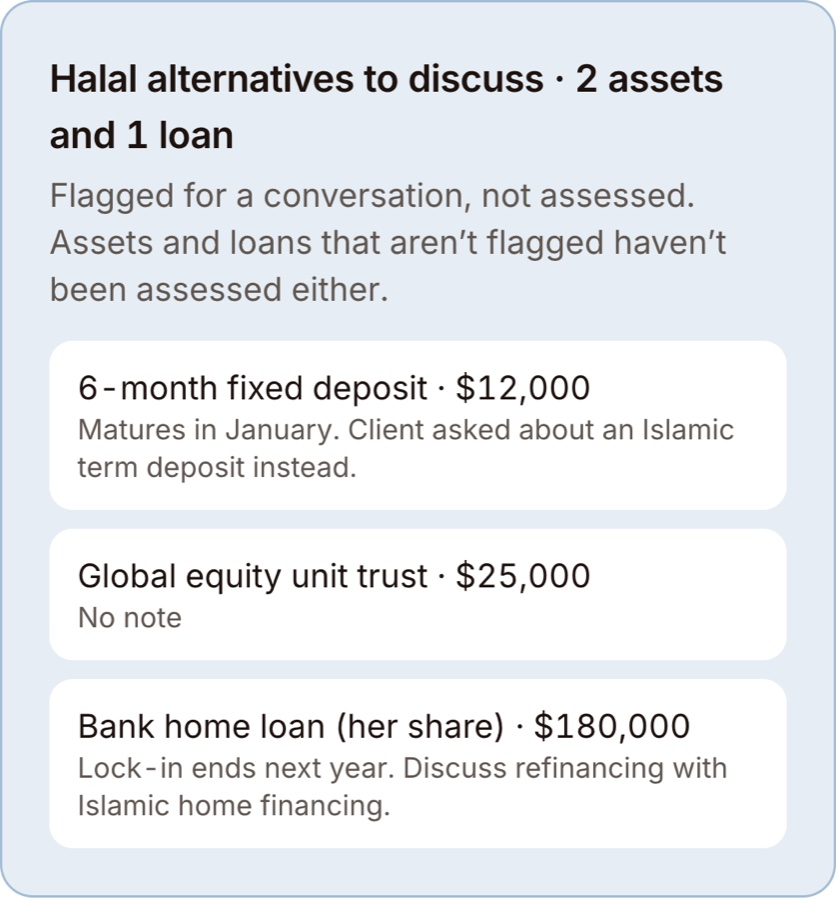
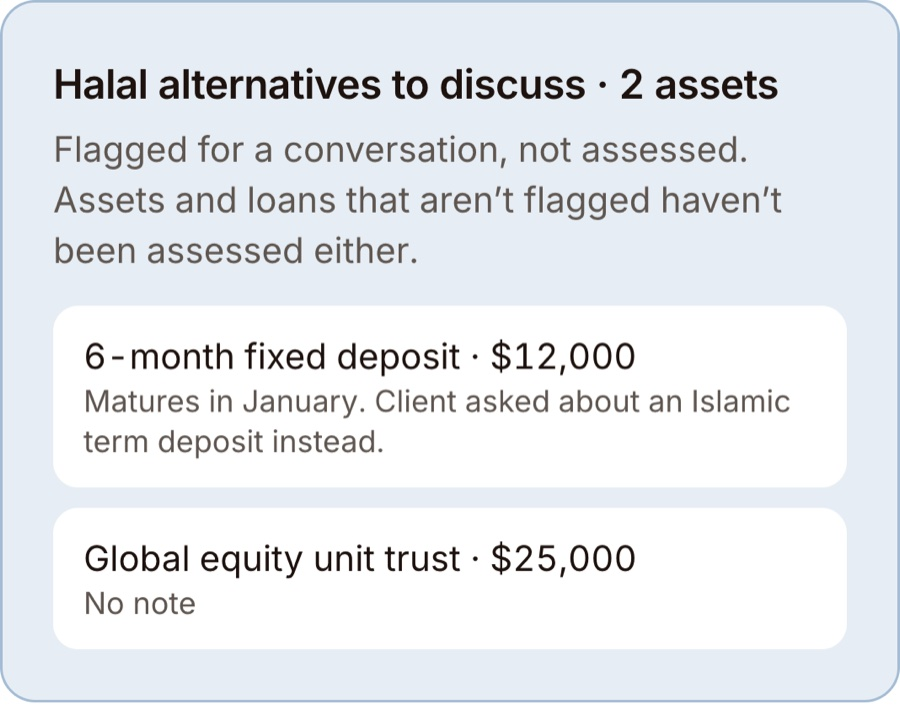
Halal sample without home loan; add 'And there's more' feature list

diff --git a/index.html b/index.html
@@ -61,6 +61,11 @@
   .lg-row img { height: 23px; }
   .sample-tag { display: inline-block; font-size: 12px; font-weight: 600; color: var(--muted); background: #fff; border: 1px solid var(--border); border-radius: 999px; padding: 3px 10px; margin-top: 12px; }
 
+  .more { list-style: none; padding: 0; display: grid; gap: 0; border-top: 1px solid var(--border); }
+  .more li { padding: 12px 0 12px 26px; border-bottom: 1px solid var(--border); position: relative; }
+  .more li::before { content: ""; position: absolute; left: 4px; top: 19px; width: 8px; height: 8px; border-radius: 50%; background: var(--feature-border); }
+  .more b { display: block; font-size: 16px; }
+  .more span { display: block; color: var(--muted); font-size: 14px; }
   .steps { list-style: none; padding: 0; display: grid; gap: 14px; }
   .steps li { display: flex; gap: 14px; align-items: flex-start; }
   .num { flex: none; width: 36px; height: 36px; border-radius: 50%; background: var(--primary); color: #fff; font-weight: 700; display: grid; place-items: center; }
@@ -131,8 +136,8 @@
           <p>Each key measure is checked against a general guideline and given a clear status.</p>
         </div>
         <div class="panel" role="tabpanel" id="p2" aria-labelledby="t2" hidden>
-          <img src="img/halal.jpg" width="836" height="900" alt="Sample list of halal alternatives to discuss: a fixed deposit, a unit trust and a home loan.">
-          <p>Flag any savings, investments or loans you'd like to talk through halal alternatives for. They're noted for discussion. Clearworth doesn't rate products as halal or not.</p>
+          <img src="img/halal.jpg" width="900" height="705" alt="Sample list of halal alternatives to discuss: a fixed deposit and a unit trust.">
+          <p>Flag any savings or investments you'd like to talk through halal alternatives for. They're noted for discussion. Clearworth doesn't rate products as halal or not.</p>
         </div>
         <div class="panel" role="tabpanel" id="p3" aria-labelledby="t3" hidden>
           <div class="legacy" role="img" aria-label="Sample legacy checklist: zakat done, wasiat not done, hibah not sure, CPF nomination not done, waqaf done.">
@@ -142,6 +147,20 @@
         </div>
         <span class="sample-tag">Sample client · fictional figures</span>
       </div>
+    </section>
+
+    <section aria-labelledby="more-h">
+      <h2 id="more-h">And there's more</h2>
+      <p class="section-sub">The samples above are just a taste. Your review also covers:</p>
+      <ul class="more">
+        <li><b>Your full picture</b><span>Net worth, cash flow and where your money goes each month</span></li>
+        <li><b>All 12 health measures</b><span>Safety net, budget, debt, wealth mix and protection</span></li>
+        <li><b>Your goals</b><span>Hajj or Umrah, education, a home, a wedding or retirement, including what CPF can cover</span></li>
+        <li><b>Insurance check</b><span>Whether premiums are affordable and how your cover compares with general guidelines</span></li>
+        <li><b>A clear action plan</b><span>Your top priorities in order, and how to split your spare cash each month</span></li>
+        <li><b>"What if" scenarios</b><span>Try changes to spending, saving or investing and see the effect on your goals</span></li>
+        <li><b>A written report to keep</b><span>Everything we covered, summarised for you</span></li>
+      </ul>
     </section>
 
     <section aria-labelledby="how-h">
